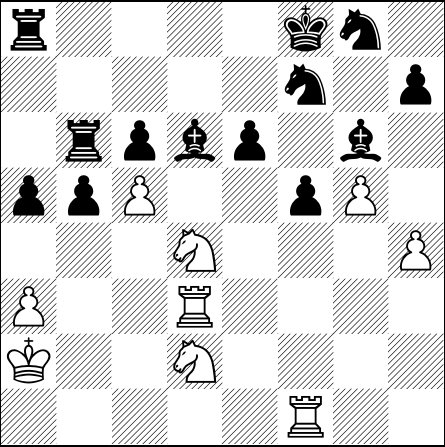
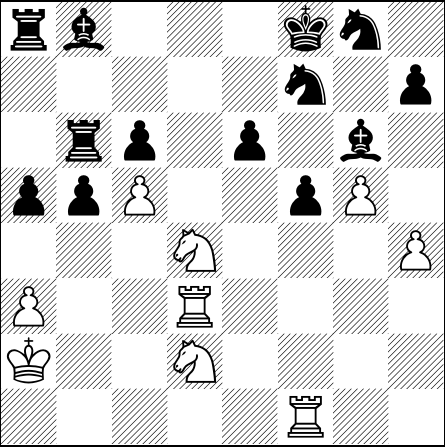
[automated] Regenerate text/pdf for chessboard

Changed region(s): [[0.3798, 0.2617, 0.4966, 0.3781], [0.1461, 0.0, 0.2337, 0.1163]]

diff --git a/default_filepath.tex b/default_filepath.tex
@@ -13,6 +13,6 @@
 \normalsize%
 \setchessboard{showmover=false}%
 \newgame%
-\fenboard{r4kn1/5n1p/1rpbp1b1/ppP2pP1/3N3P/P2R4/K2N4/5R2 b - - 0 59}%
+\fenboard{rb3kn1/5n1p/1rp1p1b1/ppP2pP1/3N3P/P2R4/K2N4/5R2 w - - 1 60}%
 \chessboard%
 \end{document}
